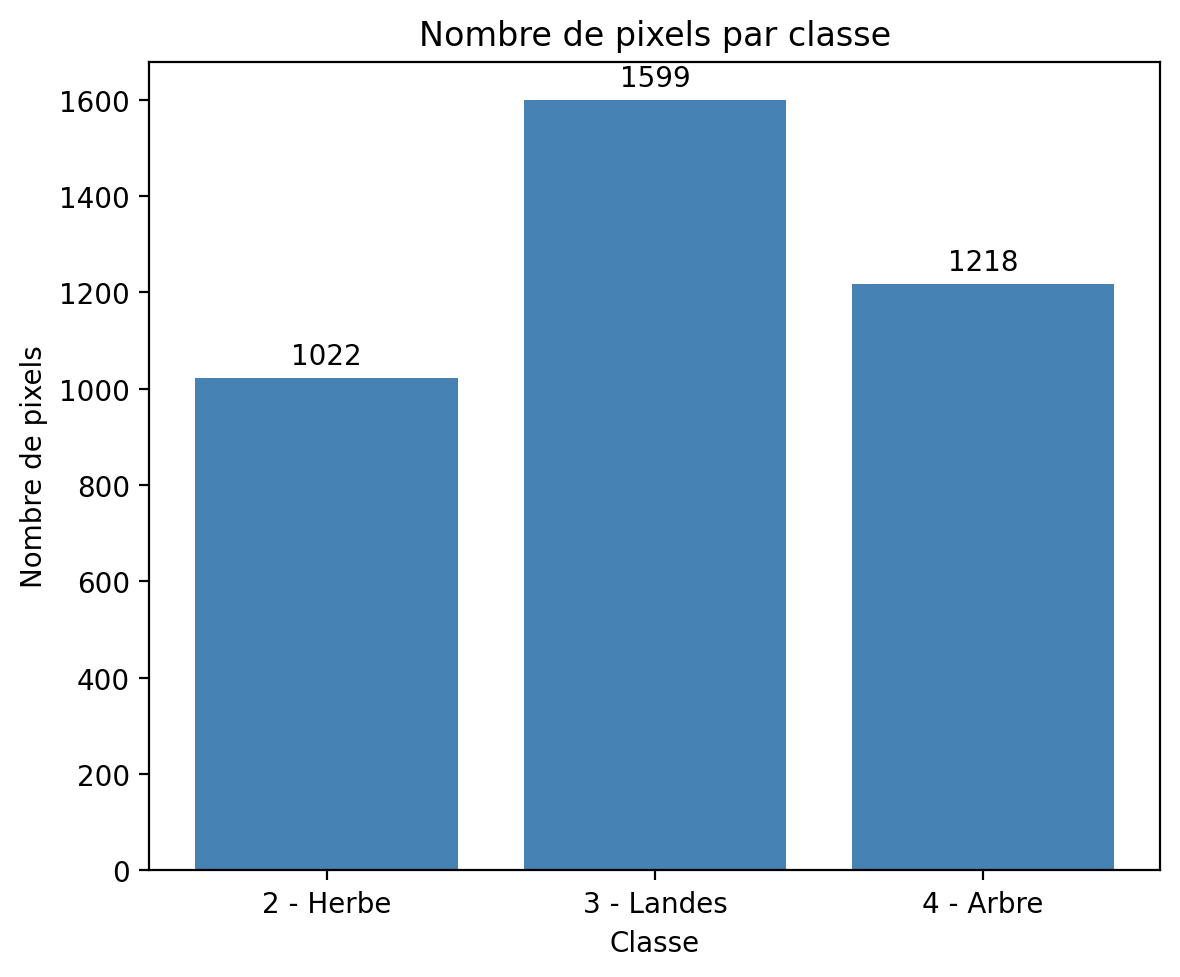
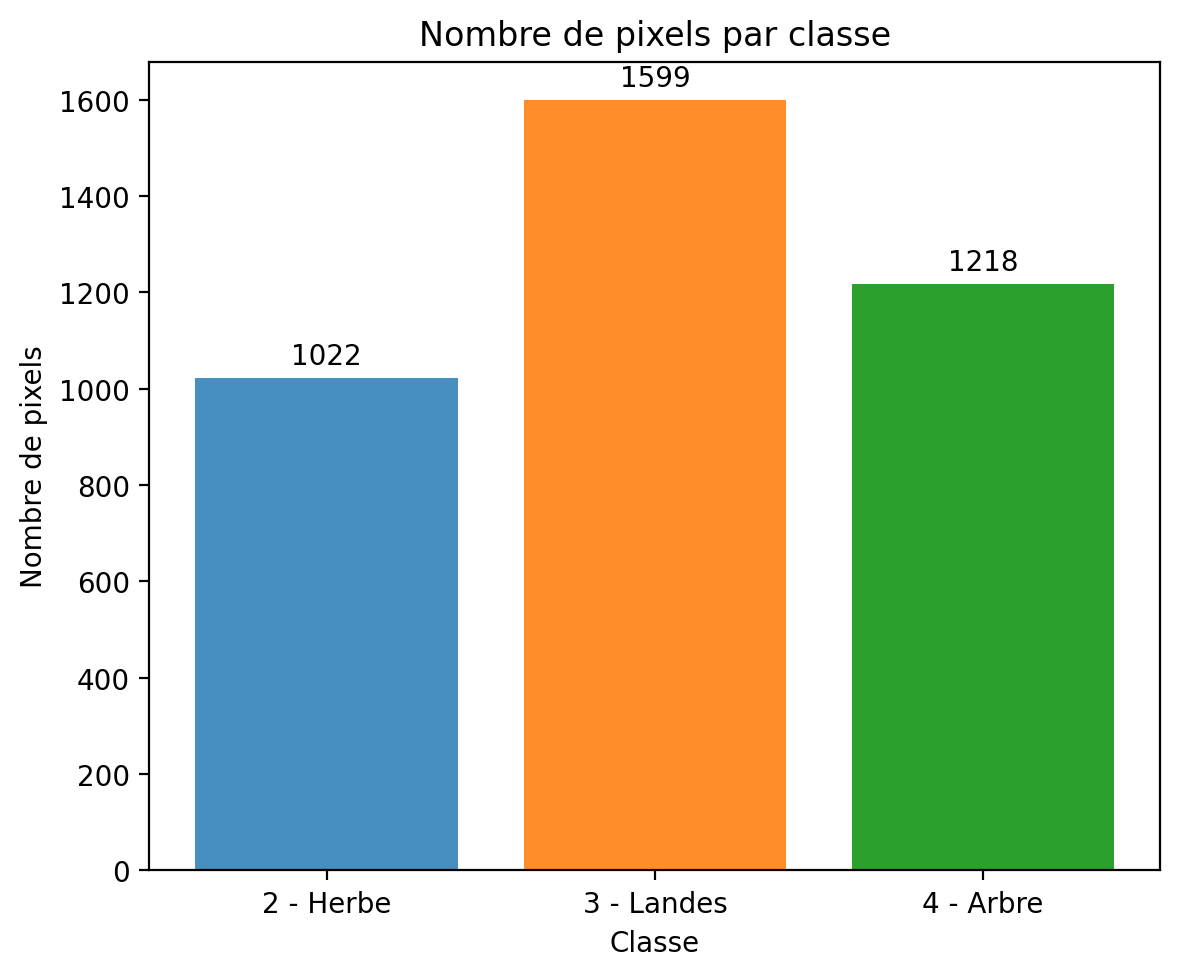
maj

diff --git a/classification.py b/classification.py
@@ -90,8 +90,6 @@ def rasterization(in_vector, ref_image, out_image, field_name, dtype=None):
     vec_ds = None
     ref_ds = None
 
-    print("Rasterisation terminée :", out_image)
-
 
 def get_samples_from_roi(raster_name, roi_name, value_to_extract=None,
                          bands=None, output_fmt='full_matrix'):
